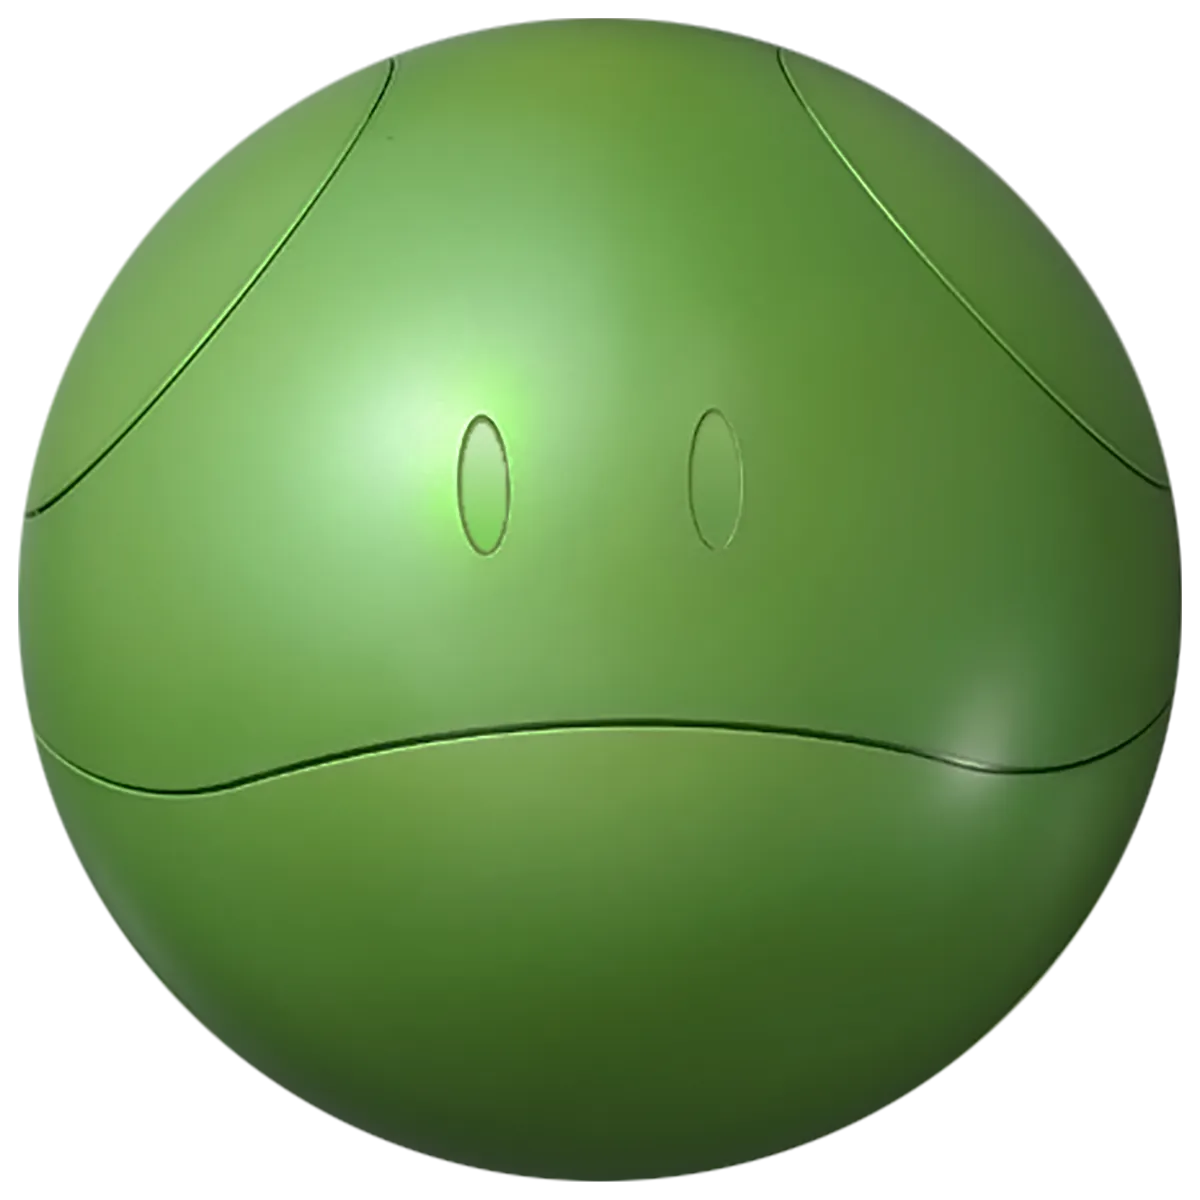
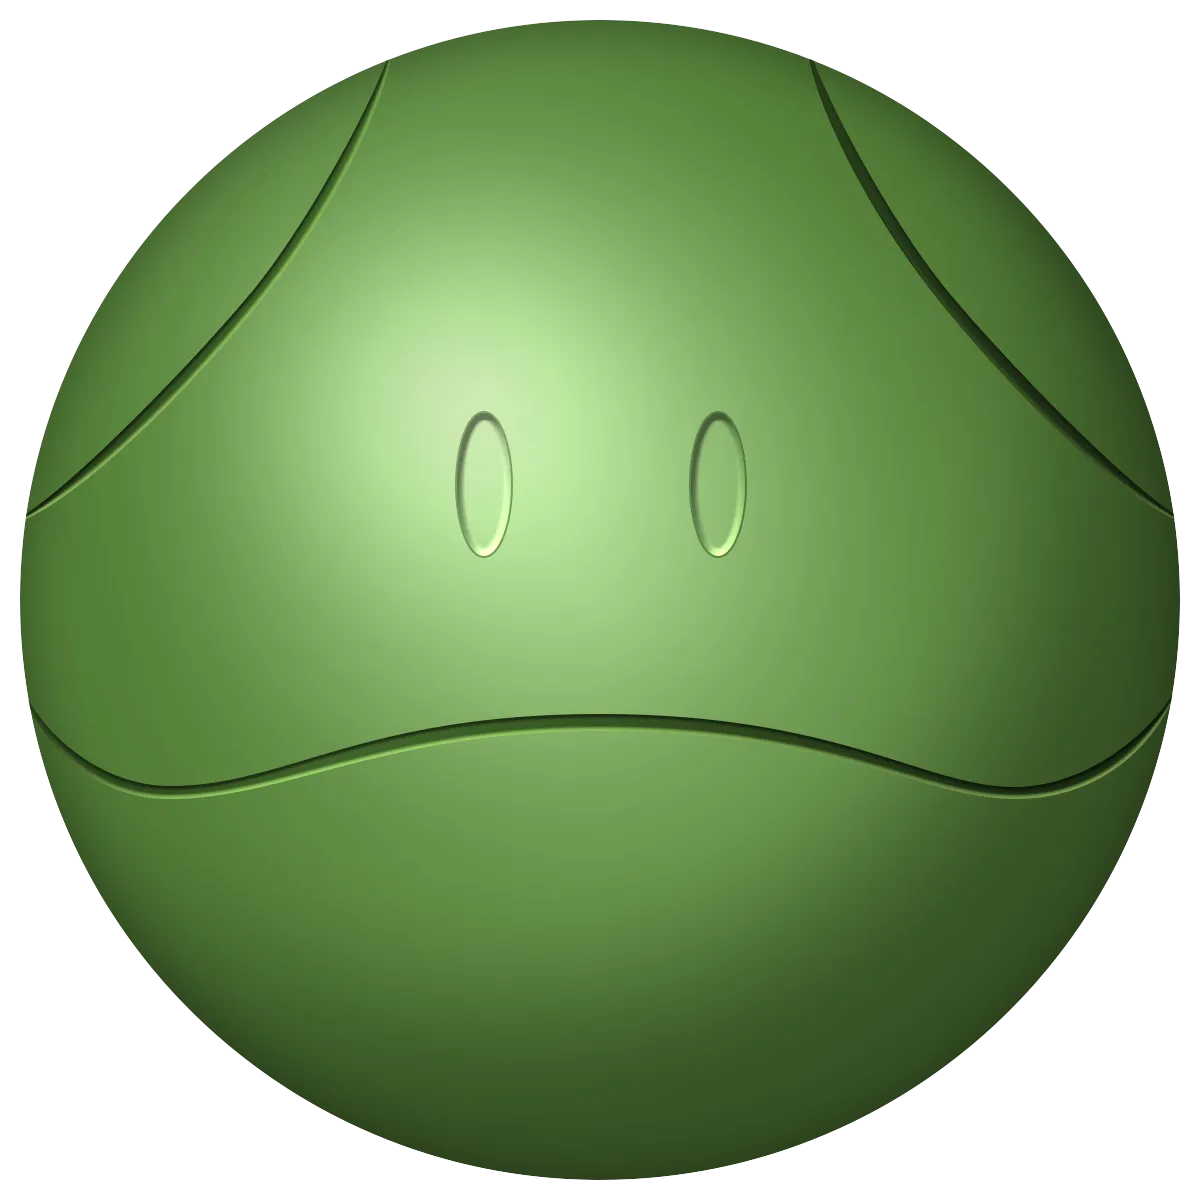
Replace Haro image

diff --git a/client/Haro.css b/client/Haro.css
@@ -78,13 +78,13 @@
 
 @keyframes activeBlink {
   0% {
-    opacity: 0.7;
+    opacity: 0.5;
   }
   30% {
     opacity: 0.2;
   }
   100% {
-    opacity: 0.7;
+    opacity: 0.5;
   }
 }
 @keyframes speakingBlink {
